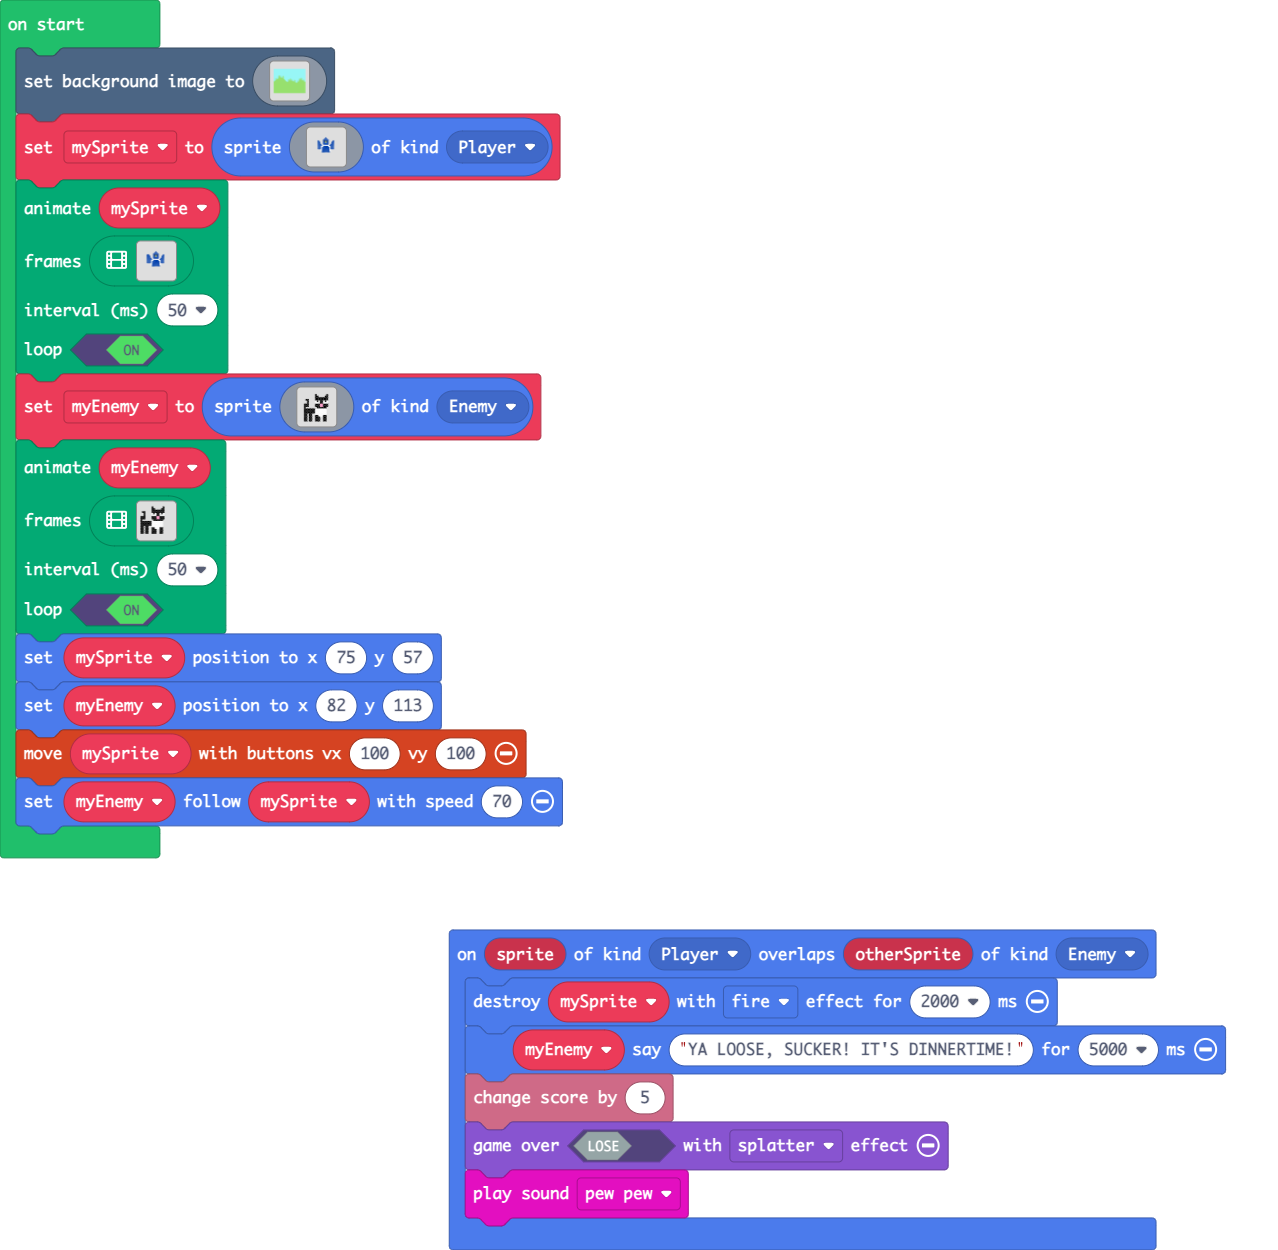
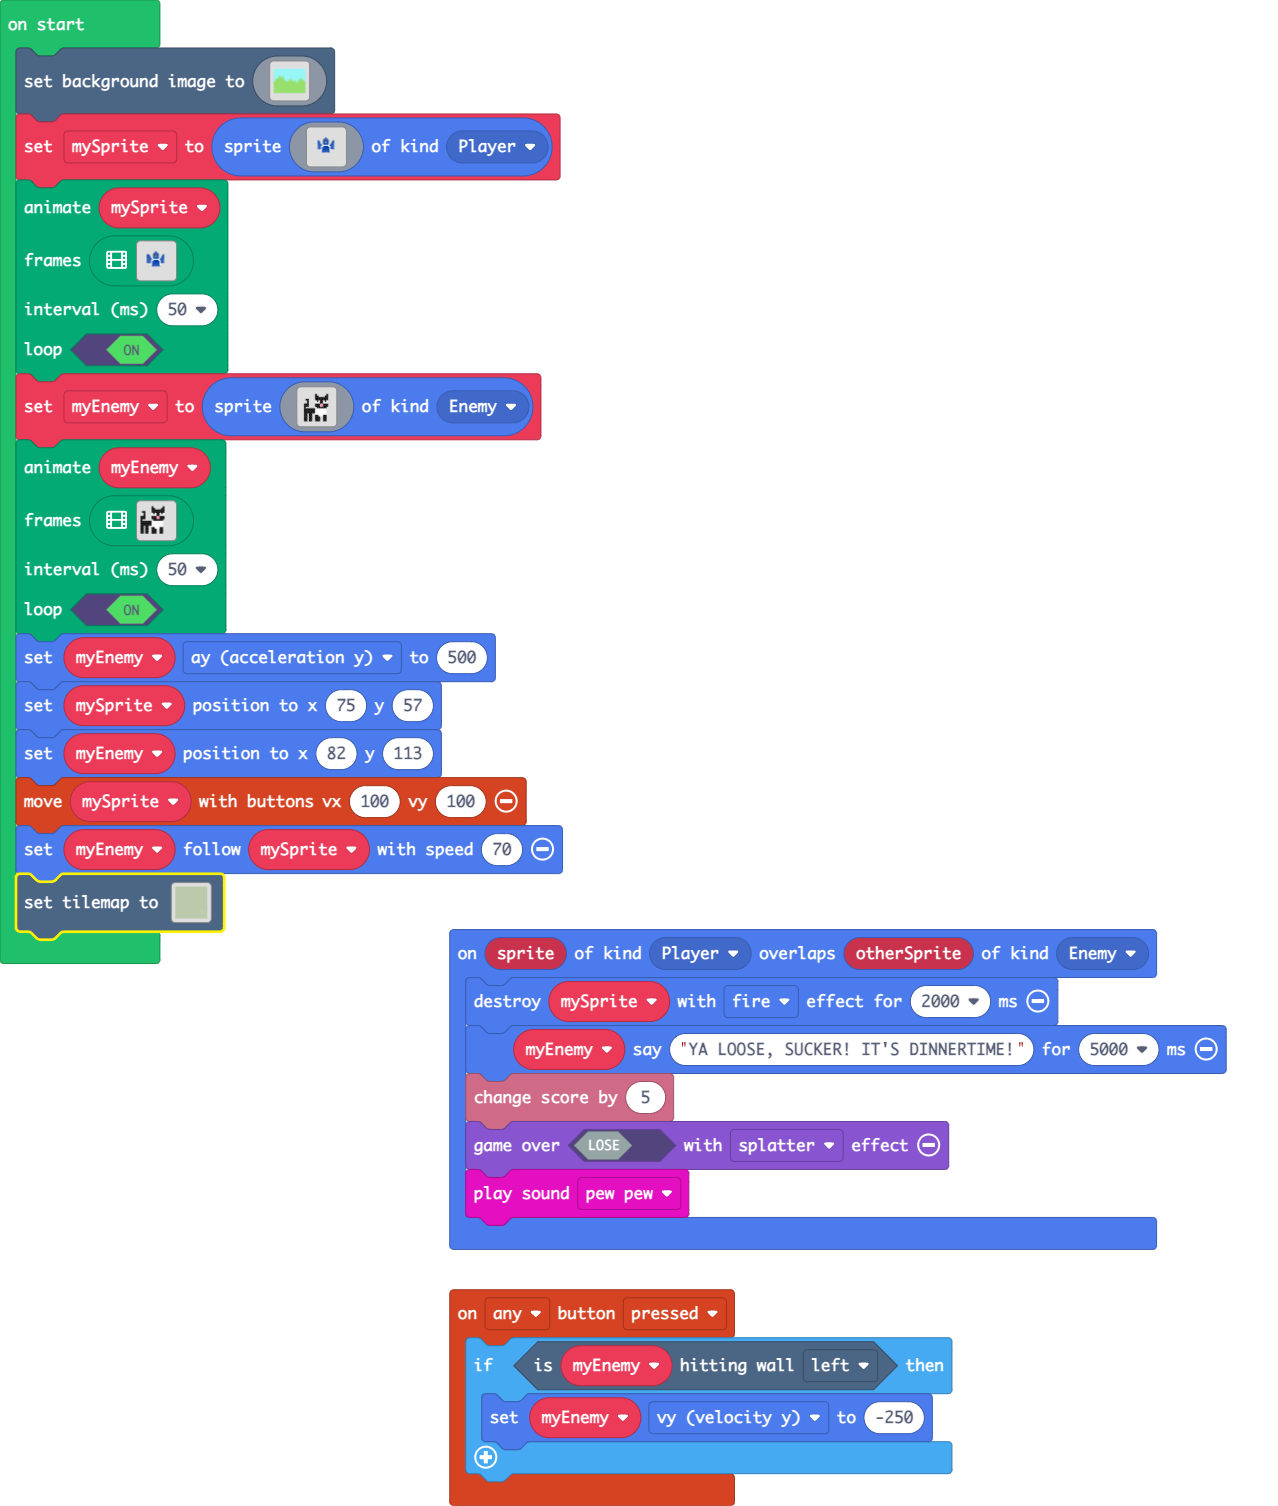
Update pxt.json, main.blocks, main.ts, tilemap.g.jres, tilemap.g.ts

diff --git a/tilemap.g.ts b/tilemap.g.ts
@@ -1,0 +1,39 @@
+// Auto-generated code. Do not edit.
+namespace myTiles {
+    //% fixedInstance jres blockIdentity=images._tile
+    export const transparency16 = image.ofBuffer(hex``);
+
+    helpers._registerFactory("tilemap", function(name: string) {
+        switch(helpers.stringTrim(name)) {
+            case "level1":
+            case "level1":return tiles.createTilemap(hex`1000100002020202020202020202020202020202020202020202020202020202020202020202020202020202020202020202020202020202020202020202020202020202020202020202020202020202020202020202020202020202020202020202020202020202020202020202020202020202020202020202020202020202020202020202020202020202020202020202020202020202020202020202020202020202020202020202020202020202020202020202020202020202020202020202020202020202020202020202020202010202020202020202020202020202020202020202020202020202020202020202020202020202020202020202020202020202`, img`
+. . . . . . . . . . . . . . . . 
+. . . . . . . . . . . . . . . . 
+. . . . . . . . . . . . . . . . 
+. . . . . . . . . . . . . . . . 
+. . . . . . . . . . . . . . . . 
+. . . . . . . . . . . . . . . . 
+. . . . . . . . . . . . . . . . 
+. . . . . . . . . . . . . . . . 
+. . . . . . . . . . . . . . . . 
+. . . . . . . . . . . . . . . . 
+. . . . . . . . . . . . . . . . 
+. . . . . . . . . . . . . . . . 
+. . . . . . . . . . . . . . . . 
+. . . . . . . . . . . . . . . . 
+. . . . . . . . . . . . . . . . 
+. . . . . . . . . . . . . . . . 
+`, [myTiles.transparency16,sprites.castle.tilePath4,sprites.castle.tilePath1], TileScale.Sixteen);
+        }
+        return null;
+    })
+
+    helpers._registerFactory("tile", function(name: string) {
+        switch(helpers.stringTrim(name)) {
+            case "transparency16":return transparency16;
+        }
+        return null;
+    })
+
+}
+// Auto-generated code. Do not edit.

diff --git a/main.ts b/main.ts
@@ -1,3 +1,8 @@
+controller.anyButton.onEvent(ControllerButtonEvent.Pressed, function () {
+    if (myEnemy.isHittingTile(CollisionDirection.Left)) {
+        myEnemy.vy = -250
+    }
+})
 sprites.onOverlap(SpriteKind.Player, SpriteKind.Enemy, function (sprite, otherSprite) {
     mySprite.destroy(effects.fire, 2000)
     myEnemy.say("YA LOOSE, SUCKER! IT'S DINNERTIME!", 5000)
@@ -372,7 +377,9 @@ myEnemy,
 50,
 true
 )
+myEnemy.ay = 500
 mySprite.setPosition(75, 57)
 myEnemy.setPosition(82, 113)
 controller.moveSprite(mySprite, 100, 100)
 myEnemy.follow(mySprite, 70)
+tiles.setTilemap(tilemap`level1`)
